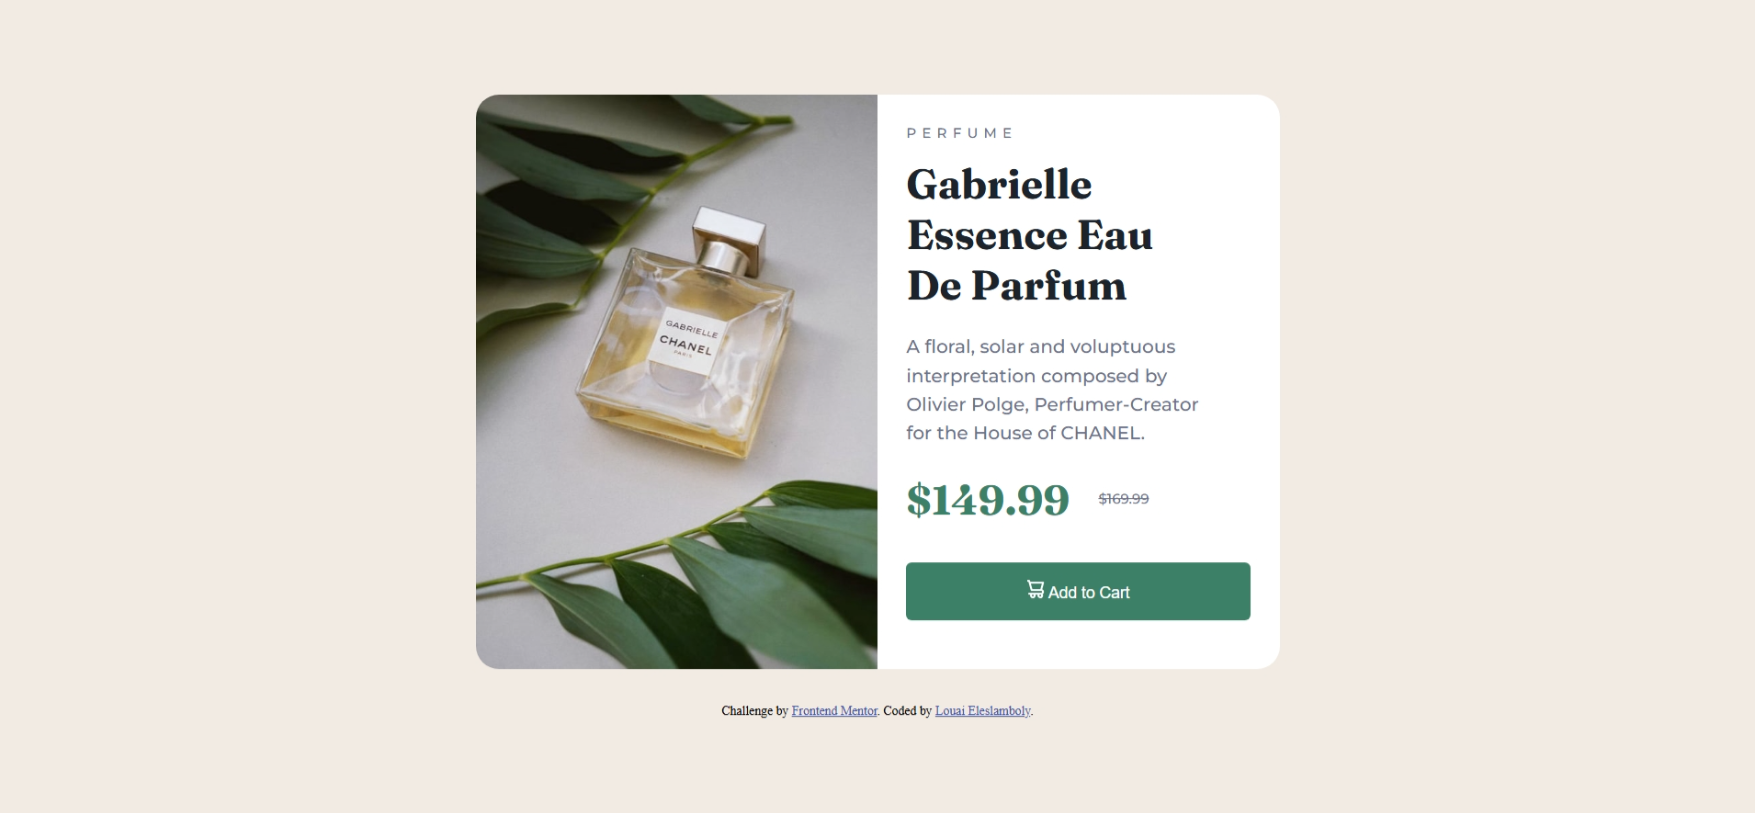
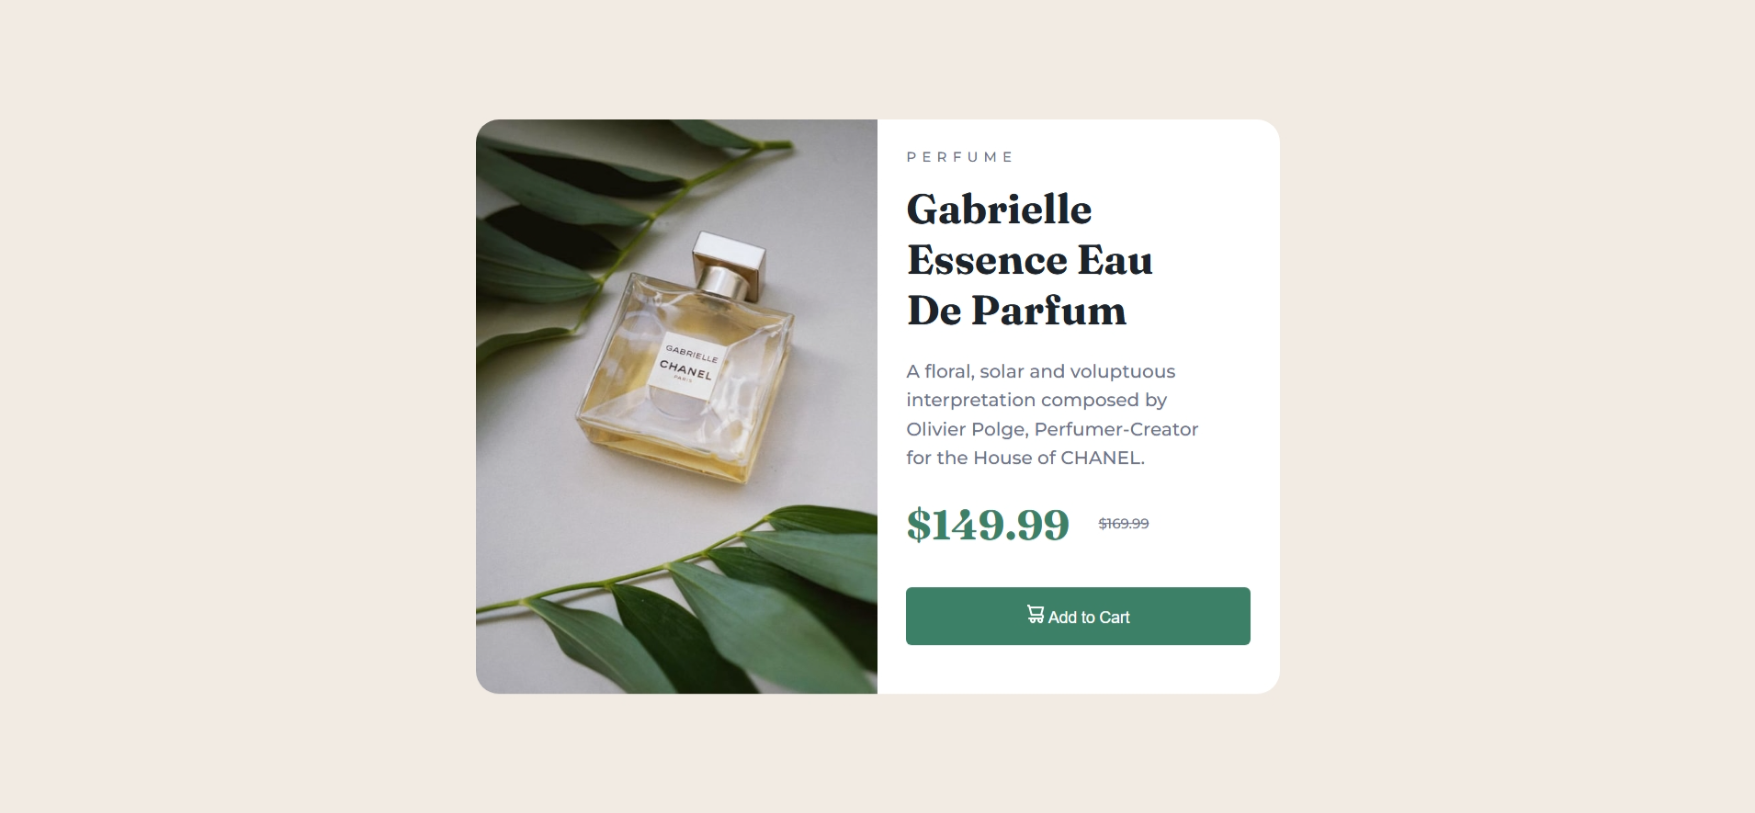
version 2

Changed region(s): [[0.2462, 0.0923, 0.7385, 0.8918]]

diff --git a/index.html b/index.html
@@ -3,15 +3,12 @@
 <head>
   <meta charset="UTF-8">
   <meta name="viewport" content="width=device-width, initial-scale=1.0"> <!-- displays site properly based on user's device -->
-
-  <link rel="icon" type="image/png" sizes="32x32" href="./images/favicon-32x32.png">
-  
   <title>Gabrielle Essence</title>
-
   <link rel="stylesheet" href="style.css">
-
 </head>
+
 <body>
+
   <div class="container">
 
     <div class="img-container">
@@ -23,8 +20,7 @@
 
       <h1 class="product-title">Gabrielle <br> Essence Eau <br> De Parfum</h1>
 
-      <p class="product-description">A floral, solar and voluptuous interpretation composed by <br> Olivier Polge, 
-      Perfumer-Creator <br> for the House of CHANEL.</p>
+      <p class="product-description">A floral, solar and voluptuous interpretation composed by <br> Olivier Polge, Perfumer-Creator <br> for the House of CHANEL.</p>
 
       <div class="price-container">
         <h1 class="price-after">$149.99</h1>
@@ -39,10 +35,6 @@
 
   </div>
   
-  <div class="attribution">
-    Challenge by <a href="https://www.frontendmentor.io?ref=challenge" target="_blank">Frontend Mentor</a>. 
-    Coded by <a href="#">Louai Eleslamboly</a>.
-  </div>
-
 </body>
+
 </html>

diff --git a/style.css b/style.css
@@ -6,9 +6,14 @@
     box-sizing: border-box;
 }
 
+html {
+    height: 100%;
+}
+
 body {
     background-color: hsl(30, 38%, 92%);
-    height: 100vh;
+    /* height: 100vh; */
+    height: 100%;
     display: flex;
     justify-content: center;
     align-items: center;
@@ -20,7 +25,6 @@ body {
     height: 500px;
     border-radius: 20px;
     overflow: hidden;
-    margin-bottom: 30px;
     display: flex;
     flex-direction: row;
 }

diff --git a/README.md b/README.md
@@ -1,0 +1,25 @@
+## Table of contents
+
+- [Overview](#overview)
+  - [Screenshot](#screenshot)
+  - [Live Site](#links)
+- [My process](#my-process)
+  - [Built with](#built-with)
+
+
+### Screenshot
+
+![](./screenshot.png)
+
+
+### Live Site
+
+- [Live Site URL](https://louai111.github.io/Product-Preview-Card/)
+
+## My process
+
+### Built with
+
+- HTML5
+- CSS 
+
